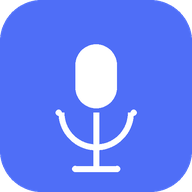
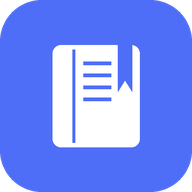
PWA 아이콘을 책(책갈피) 디자인으로 변경
- 마이크 아이콘 대신 '영어 학습'을 더 직접 나타내는 책 아이콘으로 교체
- 5가지 후보(알파벳/책/학사모/반복화살표/필기연습) 중 사용자가 선택

Changed region(s): [[0.25, 0.2188, 0.75, 0.9062]]

diff --git a/scripts/gen_icons.py b/scripts/gen_icons.py
@@ -1,12 +1,12 @@
 # -*- coding: utf-8 -*-
-"""PWA 아이콘 생성 - 브랜드 컬러 배경 + 마이크 글리프"""
+"""PWA 아이콘 생성 - 브랜드 컬러 배경 + 책 글리프 (책갈피 리본)"""
 from pathlib import Path
 from PIL import Image, ImageDraw
 
 ROOT = Path(__file__).resolve().parent.parent / "web"
 
 BG = (79, 110, 247)      # #4f6ef7 (앱 강조색)
-FG = (255, 255, 255)     # 흰색 마이크
+FG = (255, 255, 255)     # 흰색 책
 SIZE = 512
 
 
@@ -17,34 +17,20 @@ def draw_icon():
     # 배경: 둥근 사각형
     d.rounded_rectangle([0, 0, SIZE - 1, SIZE - 1], radius=110, fill=BG)
 
-    cx = SIZE // 2
-    lw = 16
+    # 책 표지
+    book_box = [140, 120, 372, 392]
+    d.rounded_rectangle(book_box, radius=22, fill=FG)
 
-    # 마이크 머리 (캡슐)
-    cap_w, cap_h, cap_top = 110, 170, 118
-    cap_box = [cx - cap_w // 2, cap_top, cx + cap_w // 2, cap_top + cap_h]
-    d.rounded_rectangle(cap_box, radius=cap_w // 2, fill=FG)
+    # 책등(spine) 라인
+    d.line([196, 132, 196, 380], fill=BG, width=8)
 
-    # 마이크 스탠드 (아래쪽 반원 호)
-    stand_r = 100
-    stand_cy = 300
-    stand_box = [cx - stand_r, stand_cy - stand_r, cx + stand_r, stand_cy + stand_r]
-    d.arc(stand_box, start=0, end=180, fill=FG, width=lw)
-    # 호 끝을 둥글게 마감
-    d.ellipse([cx - stand_r - lw // 2, stand_cy - lw // 2, cx - stand_r + lw // 2, stand_cy + lw // 2], fill=FG)
-    d.ellipse([cx + stand_r - lw // 2, stand_cy - lw // 2, cx + stand_r + lw // 2, stand_cy + lw // 2], fill=FG)
+    # 페이지 텍스트 라인 (책갈피 영역 피해서 짧게)
+    for y in (168, 200, 232, 264):
+        d.line([222, y, 296, y], fill=BG, width=10)
 
-    # 스탠드 기둥
-    pole_top, pole_bottom = stand_cy, 450
-    d.line([cx, pole_top, cx, pole_bottom], fill=FG, width=lw)
-    d.ellipse([cx - lw // 2, pole_bottom - lw // 2, cx + lw // 2, pole_bottom + lw // 2], fill=FG)
-
-    # 받침대
-    base_y = pole_bottom
-    base_half = 56
-    d.line([cx - base_half, base_y, cx + base_half, base_y], fill=FG, width=lw)
-    d.ellipse([cx - base_half - lw // 2, base_y - lw // 2, cx - base_half + lw // 2, base_y + lw // 2], fill=FG)
-    d.ellipse([cx + base_half - lw // 2, base_y - lw // 2, cx + base_half + lw // 2, base_y + lw // 2], fill=FG)
+    # 책갈피 리본 (오른쪽에서 내려오다 V자로 접힘)
+    ribbon = [(314, 120), (352, 120), (352, 244), (333, 214), (314, 244)]
+    d.polygon(ribbon, fill=BG)
 
     return img
 
